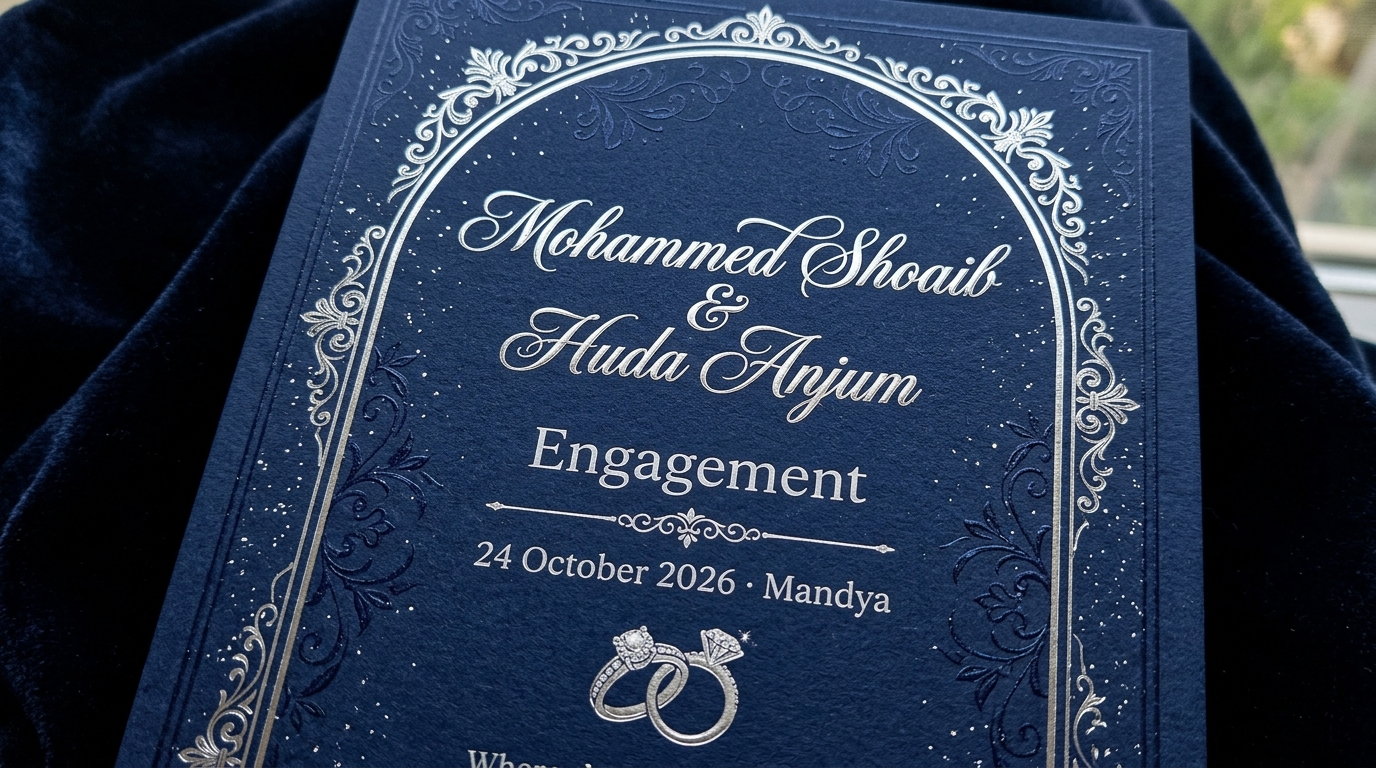
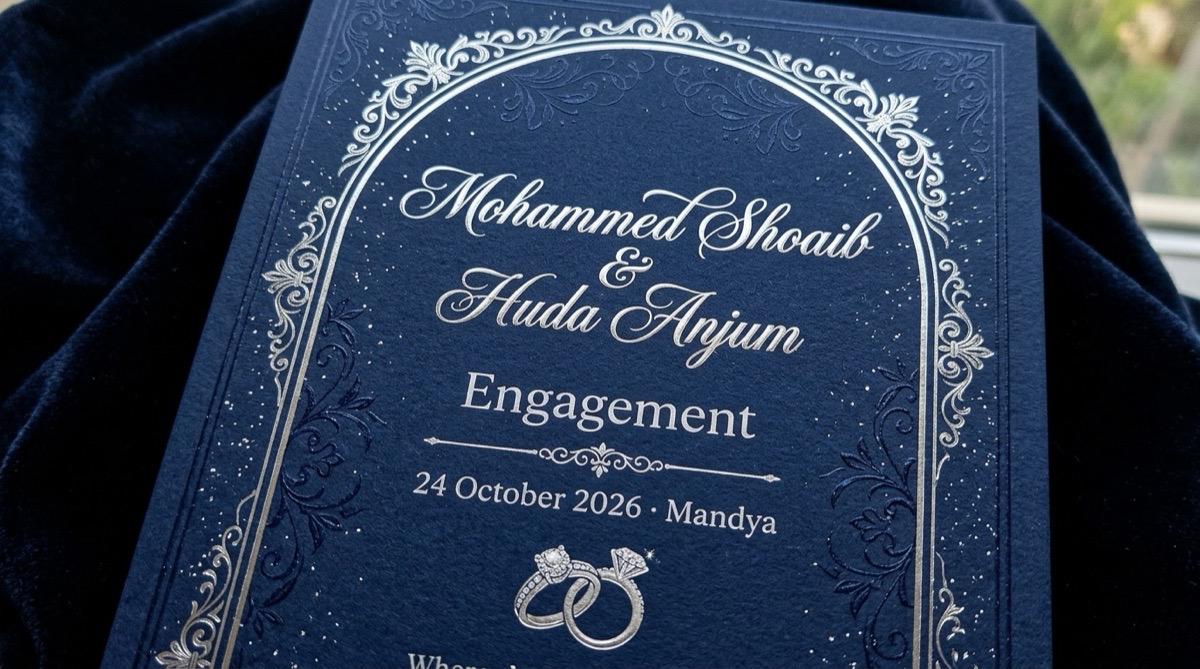
image

diff --git a/index.html b/index.html
@@ -23,22 +23,24 @@
   <meta name="apple-mobile-web-app-title" content="Shoaib &amp; Huda — Engagement" />
 
   <!-- Open Graph (WhatsApp, Facebook, iMessage link previews) -->
-  <meta property="og:type"        content="website" />
-  <meta property="og:url"         content="https://shoaib-invites.github.io/Engagement-Invitation/" />
-  <meta property="og:title"       content="Engagement of Mohammed Shoaib &amp; Huda Anjum" />
-  <meta property="og:description" content="Saturday, 24 October 2026 · 7:30 PM onwards · Noorani Function Hall, Nehru Nagar, Mandya, Karnataka. Join us to celebrate this blessed union. بارك الله لكما." />
-  <meta property="og:locale"      content="en_IN" />
-  <meta property="og:site_name"   content="Shoaib &amp; Huda Engagement" />
-  <meta property="og:image"       content="https://shoaib-invites.github.io/Engagement-Invitation/og-image.jpg" />
-  <meta property="og:image:width"  content="1366" />
-  <meta property="og:image:height" content="768" />
-  <meta property="og:image:alt"    content="Engagement of Mohammed Shoaib and Huda Anjum, 24 October 2026, Mandya" />
+  <meta property="og:type"               content="website" />
+  <meta property="og:url"                content="https://shoaib-invites.github.io/Engagement-Invitation/" />
+  <meta property="og:title"              content="Engagement of Mohammed Shoaib &amp; Huda Anjum" />
+  <meta property="og:description"        content="Saturday, 24 October 2026 · 7:30 PM onwards · Noorani Function Hall, Nehru Nagar, Mandya, Karnataka. Join us to celebrate this blessed union." />
+  <meta property="og:locale"             content="en_IN" />
+  <meta property="og:site_name"          content="Shoaib &amp; Huda Engagement" />
+  <meta property="og:image"              content="https://shoaib-invites.github.io/Engagement-Invitation/og-image.jpg?v=2" />
+  <meta property="og:image:secure_url"   content="https://shoaib-invites.github.io/Engagement-Invitation/og-image.jpg?v=2" />
+  <meta property="og:image:type"         content="image/jpeg" />
+  <meta property="og:image:width"        content="1200" />
+  <meta property="og:image:height"       content="669" />
+  <meta property="og:image:alt"          content="Engagement of Mohammed Shoaib and Huda Anjum, 24 October 2026, Mandya" />
 
   <!-- Twitter / X Card -->
   <meta name="twitter:card"        content="summary_large_image" />
   <meta name="twitter:title"       content="Engagement of Mohammed Shoaib &amp; Huda Anjum" />
   <meta name="twitter:description" content="Saturday, 24 Oct 2026 · 7:30 PM · Noorani Function Hall, Mandya, Karnataka. You are cordially invited." />
-  <meta name="twitter:image"       content="https://shoaib-invites.github.io/Engagement-Invitation/og-image.jpg" />
+  <meta name="twitter:image"       content="https://shoaib-invites.github.io/Engagement-Invitation/og-image.jpg?v=2" />
   <meta name="twitter:image:alt"   content="Engagement Invitation — Mohammed Shoaib &amp; Huda Anjum" />
 
   <!-- Favicon (inline SVG monogram) -->
@@ -303,7 +305,6 @@
       line-height: 1.6;
       text-shadow: 0 0 30px rgba(226, 232, 240, 0.55);
       margin-bottom: 0.3rem;
-      margin-top: 1em;
     }
 
     .bismillah-en {
